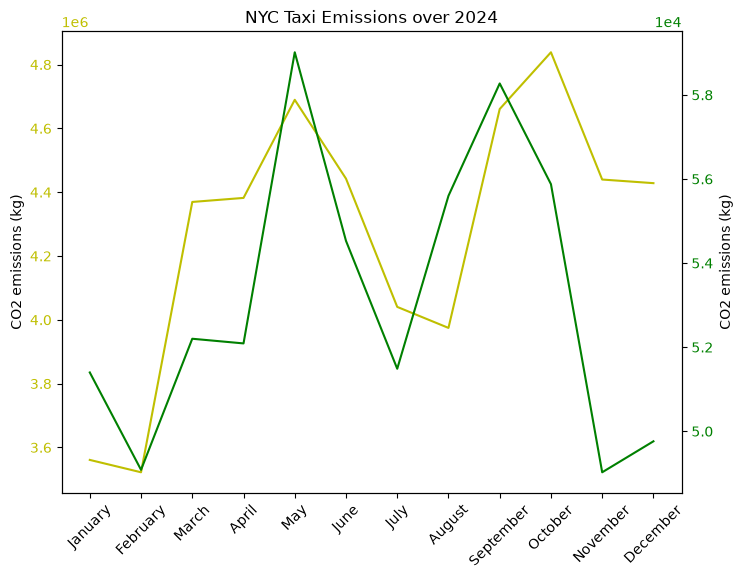
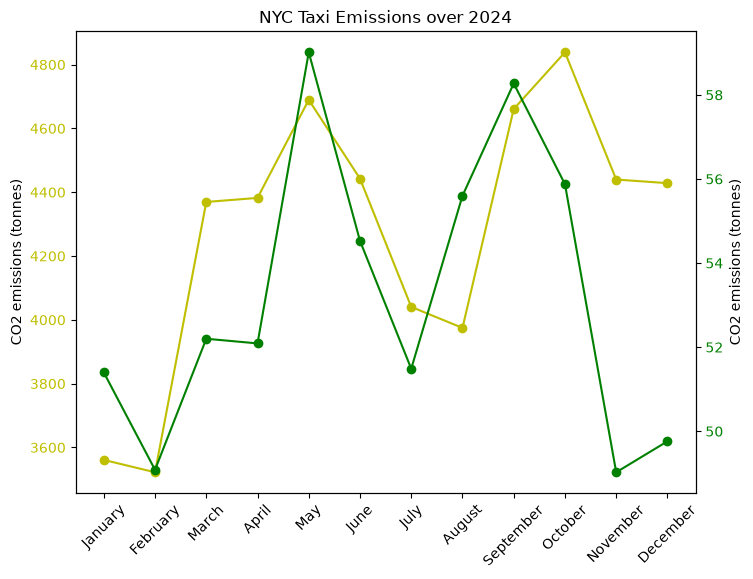
report changes, delete unused plot

diff --git a/analysis.py b/analysis.py
@@ -5,7 +5,20 @@ import matplotlib.pyplot as plt
 import seaborn as sns
 import numpy as np
 
+logger = None
+logger = logging.getLogger(__name__)
+logger.setLevel(logging.INFO)
 
+handler = logging.FileHandler('analysis.log')
+handler.setFormatter(logging.Formatter('%(asctime)s - %(levelname)s - %(message)s'))
+
+logger.addHandler(handler)
+logger.propagate = False
+
+def report(msg):
+    global logger
+    print(msg)
+    logger.info(msg)
 
 months = ["January","February","March","April",
                         "May","June","July","August","September",
@@ -32,19 +45,13 @@ def translate(timeframe, time):
             return time
 
 def analyze_taxi_co2():
+    global logger
     """
     Find out key statistics for yellow and green taxis for when
     CO2 production is most and least problematic, and the largest
     CO2 producing trip.
     """
-    logger = logging.getLogger(__name__)
-    logger.setLevel(logging.INFO)
-
-    handler = logging.FileHandler('analysis.log')
-    handler.setFormatter(logging.Formatter('%(asctime)s - %(levelname)s - %(message)s'))
-
-    logger.addHandler(handler)
-    logger.propagate = False
+    con = None
     try:
         con = duckdb.connect(database="emissions.duckdb",read_only=False)
         print("Connected to DuckDB instance - Analysis")
@@ -53,29 +60,29 @@ def analyze_taxi_co2():
         ax2 = ax1.twinx()
         for color in ["yellow","green"]:
             # Most carbon-intensive trip
-            car_str = f"""Most carbon-intensive trip for {color} taxis: {con.execute(f"""SELECT MAX(trip_co2_kgs) 
-                FROM {color}_trips""").fetchone()[0]} kg"""
-            print(car_str)
-            logger.info(car_str)
+            row = con.execute(f"""SELECT trip_co2_kgs, trip_distance, pickup_time 
+                FROM {color}_trips
+                ORDER BY trip_co2_kgs DESC LIMIT 1""").fetchone()
+            car_str = f"""Most carbon-intensive trip for {color} taxis: ({row[0]:.2f} kg {row[1]:.2f} mi, picked up {row[2]})"""
+            report(car_str)
             # Most (and least) carbon-intensive time-frames
             # sum co2 totals group by hour
             frames = ["hour_of_day", "day_of_week","week_of_year","month_of_year"]
             for frame in frames:
+                # sort desc gets highest, sort asc gets lowest
                 vals = con.execute(f"""WITH aves AS (SELECT {frame}, AVG(trip_co2_kgs) AS avg_co2 FROM {color}_trips GROUP BY {frame})
                     (SELECT {frame}, avg_co2 FROM aves ORDER BY avg_co2 DESC LIMIT 1)
                     UNION ALL
-                    (SELECT {frame}, avg_co2 FROM aves ORDER BY avg_co2 ASC LIMIT 1);""").fetchall()
+                    (SELECT {frame}, avg_co2 FROM aves ORDER BY avg_co2 ASC LIMIT 1);""").fetchall() 
                 frame_str = f"Most carbon-intensive {frame.replace("_", " ")} for {color} taxis: {translate(frame, vals[0][0])}"
                 frame_str_least = f"Least carbon-intensive {frame.replace("_", " ")} for {color} taxis: {translate(frame, vals[1][0])}"
-                print(frame_str)
-                print(frame_str_least)
-                logger.info(frame_str)
-                logger.info(frame_str_least)
+                report(frame_str)
+                report(frame_str_least)
                 
             
             # Time plot
             # sum CO2 totals group by month
-            df = con.execute(f"""SELECT month_of_year, SUM(trip_co2_kgs)
+            df = con.execute(f"""SELECT month_of_year, SUM(trip_co2_kgs) / 1000
                                 FROM {color}_trips 
                                 GROUP BY month_of_year 
                                 ORDER BY month_of_year ASC""").fetchall()
@@ -83,20 +90,19 @@ def analyze_taxi_co2():
             df['logco2'] = np.log(df['co2'])
             axes = ax1 if color == "yellow" else ax2
             col_ticks = color[:1]
-            axes.plot(df['month'], df['co2'], color=col_ticks, label=color)
+            axes.plot(df['month'], df['co2'], color=col_ticks, label=color, marker="o")
             axes.tick_params(axis='y',labelcolor=col_ticks)
             #sns.lineplot(df, x='month', y='co2', label=color).set_title(f"NYC Taxi Emissions Over 2024")
         plt.xlabel("Month of year")
         plt.title("NYC Taxi Emissions over 2024")
-        ax1.ticklabel_format(axis='y', scilimits=(0, 0))
-        ax2.ticklabel_format(axis='y', scilimits=(0, 0))
-        ax1.set_ylabel("CO2 emissions (kg)")
-        ax2.set_ylabel("CO2 emissions (kg)")
+        ax1.set_ylabel("CO2 emissions (tonnes)")
+        ax2.set_ylabel("CO2 emissions (tonnes)")
         ax1.set_xticks(ticks=np.arange(1,13, step=1), 
                 labels=months,
                 rotation=45)
         plt.savefig(f"monthly_emissions_duo.png",bbox_inches="tight")
         plt.clf()
+        report("Plot generated")
         
     except Exception as e:
         print(f"Caught exception: {e}")

diff --git a/clean.py b/clean.py
@@ -9,6 +9,20 @@ import logging
 #Remove any trips longer than 100 miles in length.
 #Remove any trips lasting more than 1 day in length (86400 seconds).
 
+logger = None
+logger = logging.getLogger(__name__)
+logger.setLevel(logging.INFO)
+
+handler = logging.FileHandler('clean.log')
+handler.setFormatter(logging.Formatter('%(asctime)s - %(levelname)s - %(message)s'))
+
+logger.addHandler(handler)
+logger.propagate = False
+
+def report(msg):
+    global logger
+    print(msg)
+    logger.info(msg)
 
 def clean_taxi_db():
     """
@@ -16,51 +30,37 @@ def clean_taxi_db():
     irrelevant data points such as fare resets (0 passengers, 0 miles)
     and outliers (>100 miles, >1-day trips)
     """
-    logger = logging.getLogger(__name__)
-    logger.setLevel(logging.INFO)
-
-    handler = logging.FileHandler('clean.log')
-    handler.setFormatter(logging.Formatter('%(asctime)s - %(levelname)s - %(message)s'))
-
-    logger.addHandler(handler)
-    logger.propagate = False
+    global logger
     con = None
     try:
         con = duckdb.connect(database="emissions.duckdb",read_only=False)
-        print("Connected to DDB instance - Clean")
-        logger.info("Connected to DDB instance - Clean")
+        report("Connected to DDB instance - Clean")
         # Drop duplicates
         for color in ['yellow','green']:
-            print(f"Cleaning {color} taxis")
-            logger.info(f"Cleaning {color} taxis")
+            report(f"Cleaning {color} taxis")
             con.execute(f"DROP TABLE IF EXISTS {color};")
             con.execute(f"""CREATE TABLE {color} AS SELECT DISTINCT * FROM {color}_trips;""")
             # Check there are no duplicate rows in color
             ct_all = f"""Original table count: {con.execute(f"""SELECT COUNT(*) FROM {color}_trips;""").fetchone()[0]}"""
-            print(ct_all)
-            logger.info(ct_all)
+            report(ct_all)
             ct_dpc = f"""Dropped duplicates table count: {con.execute(f"""SELECT COUNT(*) FROM {color};""").fetchone()[0]}"""
-            print(ct_dpc)
-            logger.info(ct_dpc)
+            report(ct_dpc)
             
             # Drop 0-passenger trips
             con.execute(f"""DELETE FROM {color} WHERE passenger_count = 0;""")
             ct_psg = f"""0-Passenger row count: {con.execute(f"""SELECT COUNT(*) FROM {color} WHERE passenger_count = 0;""").fetchone()[0]}"""
-            print(ct_psg)
-            logger.info(ct_psg)
+            report(ct_psg)
             
             # Drop trips of 0 miles and over 100 miles
             con.execute(f"DELETE FROM {color} WHERE trip_distance = 0 OR trip_distance > 100;")
             ct_dst = f"""distance = 0 or >100 row count: {con.execute(f"""SELECT COUNT(*) FROM {color} WHERE trip_distance = 0 OR trip_distance > 100;""").fetchone()[0]}"""
-            print(ct_dst)
-            logger.info(ct_dst)
+            report(ct_dst)
             
             # Drop trips over 1 day long
             con.execute(f"DELETE FROM {color} WHERE DATE_DIFF('second', pickup_time, dropoff_time) > 86400;")
             
             ct_time = f""">1 day trip row count: {con.execute(f"""SELECT COUNT(*) FROM {color} WHERE DATE_DIFF('second', pickup_time, dropoff_time) > 86400;""").fetchone()[0]}"""
-            print(ct_time)
-            logger.info(ct_time)
+            report(ct_time)
             
             #double-check there are no rows with the removed conditions
             ban = con.execute(f"""SELECT COUNT(*) FROM {color} WHERE
@@ -69,8 +69,7 @@ def clean_taxi_db():
                             trip_distance > 100 OR
                             DATE_DIFF('second', pickup_time, dropoff_time) > 86400;""").fetchone()[0]
             ct_ban = f"Double-checking for banned term rows: {ban}"
-            print(ct_ban)
-            logger.info(ct_ban)
+            report(ct_ban)
             
             
             # Replace the original table with the cleaned one, then discard the new one
@@ -79,8 +78,7 @@ def clean_taxi_db():
                         INSERT INTO {color}_trips SELECT * FROM {color};
                         DROP TABLE {color};""")
             ct_del = f"""Original table count after replacement: {con.execute(f"""SELECT COUNT(*) FROM {color}_trips;""").fetchone()[0]}"""
-            print(ct_del)
-            logger.info(ct_del)
+            report(ct_del)
             
         
         

diff --git a/load.py b/load.py
@@ -8,6 +8,20 @@ import logging
 # A full table of GREEN taxi trips for all of 2024.
 # A lookup table of vehicle_emissions based on the included CSV file above.
 
+logger = None
+logger = logging.getLogger(__name__)
+logger.setLevel(logging.INFO)
+
+handler = logging.FileHandler('load.log')
+handler.setFormatter(logging.Formatter('%(asctime)s - %(levelname)s - %(message)s'))
+
+logger.addHandler(handler)
+logger.propagate = False
+
+def report(msg):
+    global logger
+    print(msg)
+    logger.info(msg)
 
 def load_parquet_files():
     """
@@ -16,22 +30,13 @@ def load_parquet_files():
     NYC green taxi data, January to December 2024.
     Vehicle emissions data for different vehicle types.
     """
-    logger = logging.getLogger(__name__)
-    logger.setLevel(logging.INFO)
-
-    handler = logging.FileHandler('load.log')
-    handler.setFormatter(logging.Formatter('%(asctime)s - %(levelname)s - %(message)s'))
-
-    logger.addHandler(handler)
-    logger.propagate = False
-
+    global logger
     con = None
 
     try:
         # Connect to local DuckDB instance
         con = duckdb.connect(database='emissions.duckdb', read_only=False)
-        print("Connected to DDB instance - Load")
-        logger.info("Connected to DuckDB instance - Load")
+        report("Connected to DDB instance - Load")
 
         con.execute(f"""
             DROP TABLE IF EXISTS vehicle_emissions;
@@ -41,12 +46,11 @@ def load_parquet_files():
             SELECT * FROM read_csv_auto(
                 'data/vehicle_emissions.csv');
         """)
-        print("Dropped tables if exists")
-        logger.info("Dropped tables if exists")
+        report("Dropped tables if exists")
         n = con.execute("SELECT COUNT(*) FROM vehicle_emissions").fetchone()[0]
-        print(f"vehicle_emissions: {n} rows loaded")
-        logger.info(f"vehicle_emissions: {n} rows loaded")
+        report(f"vehicle_emissions: {n} rows loaded")
         for color, lead in zip(['yellow','green'],['t','l']):
+            report(f"Loading {color} taxi dataset...")
             for month in range(1, 13):
                 cmd = f"CREATE TABLE {color}_trips AS" if month==1 else f"INSERT INTO {color}_trips"
                 url = f'https://d37ci6vzurychx.cloudfront.net/trip-data/{color}_tripdata_2024-{month:02d}.parquet'
@@ -60,10 +64,8 @@ def load_parquet_files():
                         trip_distance 
                     FROM read_parquet('{url}');
                             """)
-                print(f"Fetched data for month: {month}")
-                print(f"Average trip distance: {con.execute(f"""SELECT AVG(trip_distance) FROM {color}_trips""").fetchone()[0]}")
-                logger.info(f"Fetched data for month: {month}")
-                logger.info(f"Average trip distance: {con.execute(f"""SELECT AVG(trip_distance) FROM {color}_trips""").fetchone()[0]}")
+                report(f"Fetched data for month: {month}")
+                report(f"Average trip distance: {con.execute(f"""SELECT AVG(trip_distance) FROM {color}_trips""").fetchone()[0]}")
                 
                 
 

diff --git a/transform.py b/transform.py
@@ -2,6 +2,19 @@ import duckdb
 import logging
 
 logger = None
+logger = logging.getLogger(__name__)
+logger.setLevel(logging.INFO)
+
+handler = logging.FileHandler('transform.log')
+handler.setFormatter(logging.Formatter('%(asctime)s - %(levelname)s - %(message)s'))
+
+logger.addHandler(handler)
+logger.propagate = False
+
+def report(msg):
+    global logger
+    print(msg)
+    logger.info(msg)
 
 def newcol(con, color, name, dtype):
     """
@@ -14,8 +27,7 @@ def newcol(con, color, name, dtype):
     dtype -- The data type of the new column, in SQL. (String)
     """
     s = f"Making new column in {color}_trips if not exists: {name}, {dtype}"
-    print(s)
-    logger.info(s)
+    report(s)
     con.execute(f"""ALTER TABLE {color}_trips
                         ADD COLUMN IF NOT EXISTS {name} {dtype};""")
 
@@ -26,19 +38,10 @@ def transform_taxi_columns():
     week, week of year, month of year
     """
     global logger
-    logger = logging.getLogger(__name__)
-    logger.setLevel(logging.INFO)
-
-    handler = logging.FileHandler('transform.log')
-    handler.setFormatter(logging.Formatter('%(asctime)s - %(levelname)s - %(message)s'))
-
-    logger.addHandler(handler)
-    logger.propagate = False
     con = None
     try:
         con = duckdb.connect(database="emissions.duckdb",read_only=False)
-        print("Connected to DuckDB instance - Transform")
-        logger.info("Connected to DuckDB instance - Transform")
+        report("Connected to DuckDB instance - Transform")
         for color in ['yellow','green']:
             # emissions per trip
             # Add column to (color)_trips table
@@ -49,16 +52,14 @@ def transform_taxi_columns():
                                 (SELECT co2_grams_per_mile FROM vehicle_emissions
                                 WHERE vehicle_type = '{color}_taxi') / 1000.0""")
             kg_str = "Added data for column trip_co2_kgs"
-            print(kg_str)
-            logger.info(kg_str)
+            report(kg_str)
             
             # Average mph
             newcol(con, color, "avg_mph", "FLOAT")
             con.execute(f"""UPDATE {color}_trips
                         SET avg_mph = trip_distance / (DATE_DIFF('second', pickup_time, dropoff_time) / 3600.0);""")
             mph_str = "Added data for column avg_mph"
-            print(mph_str)
-            logger.info(mph_str)
+            report(mph_str)
             # Date columns
             colnames = ["hour_of_day", "day_of_week", "week_of_year", "month_of_year"]
             parts = ['hour', 'dow', 'week', 'month']
@@ -67,8 +68,7 @@ def transform_taxi_columns():
                 con.execute(f"""UPDATE {color}_trips 
                             SET {colname} = DATE_PART('{part}', pickup_time);""")
                 time_str = f"Added data for column {colname}"
-                print(time_str)
-                logger.info(time_str)
+                report(time_str)
             
     except Exception as e:
         print(f"Caught exception: {e}")

diff --git a/README.md b/README.md
@@ -11,11 +11,11 @@ This is an ELT pipeline that ingests data from 2024 about yellow and green taxi 
 I made reusability the key focus through my program. Throughout the approach I tried to make the program iterate over repeating code, including, but not limited to:
 - Yellow and green taxis
 - The date columns, using zip() for pairs of column name and command required
-- Strings to be printed and logged
+- Strings to be printed and logged are in a report command
 
 I also tried to make sure that the pipeline never conflicts with itself. Column additions and table drops are always if the respective column does not exist or respective table does exist, data loading gives a fresh copy of the data each time, etc.
 
-Readability is another key factor. Code is largely commented and throughout the process I made verification print-outs to ensure the calculations were performed correctly. For the graph of emissions, the graph without Y scaling ([monthly_emissions.png](monthly_emissions.png)) borders on unreadable for green taxis. I believe demonstrating how usage changes from month to month per taxi type is more important, so I made another graph with two Y axes (one per taxi type, [monthly_emissions_duo.png](monthly_emissions_duo.png)) that more appropriately demonstrates these changes.
+Readability is another key factor. Code is largely commented and throughout the process I made verification print-outs to ensure the calculations were performed correctly. For the graph of emissions, the graph without Y scaling borders on unreadable for green taxis. I believe demonstrating how usage changes from month to month per taxi type is more important, so I made the graph with two Y axes (one per taxi type, on each side, [monthly_emissions_duo.png](monthly_emissions_duo.png)) that more appropriately demonstrates these changes.
 
 ## Running
 Make sure DuckDB is installed. Then, clone this repository and run this in the terminal at its folder (MacOS):
